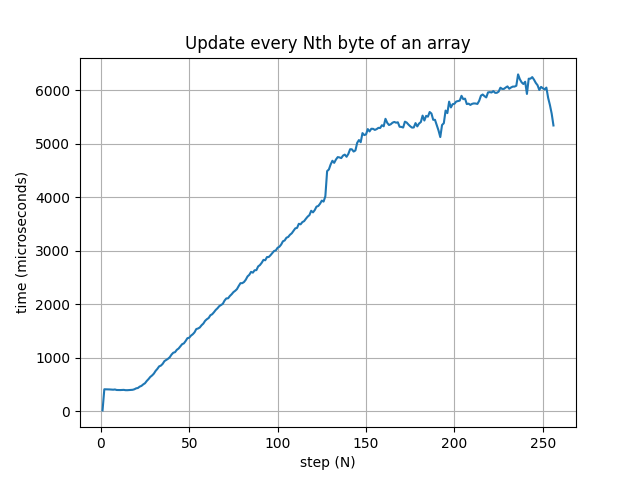
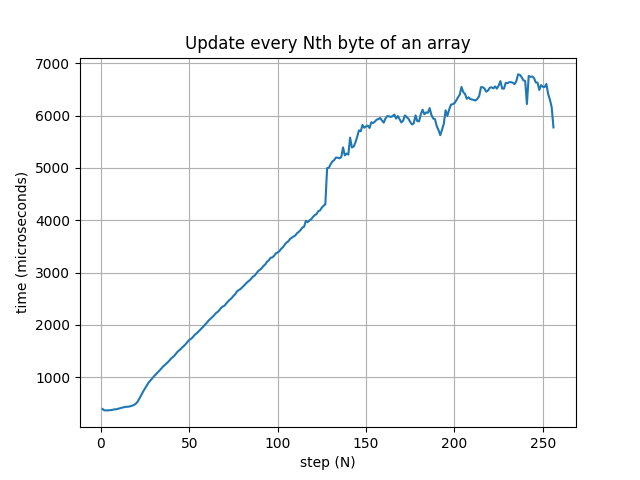
Performance improvement

diff --git a/source/step.cpp b/source/step.cpp
@@ -35,41 +35,6 @@ f64 test(std::vector<u8>& data, const u32 step, const u32 total) {
 }
 
 constexpr u32 total_bytes_read = 1 * MB;
-std::vector<u8> garbage(50 * MB);
-
-void pollute_cache() {
-    for (u32 i = 0; i < garbage.size(); i++) { garbage[i] += i; }
-    u32 sum = 0;
-    for (unsigned char i : garbage) { sum += i; }
-    std::cout << "# " << sum << std::endl;
-}
-
-f64 benchmark(const u32 step) {
-    /*
-     * We will allocate some data in memory and try to read it. Because
-     * we want to measure how much time it takes to access elements of the array
-     * which is not in CPU cache currently, we will try to pollute cache after array
-     * of data will be created.
-     */
-
-    // Allocate data that we will read
-    std::vector<u8> data(total_bytes_read * step);
-    for (u32 i = 0; i < data.size(); i++) { data[i] += i; }
-
-    // Pollute cache by process some another array which size
-    // is larger than size of CPU cache.
-    pollute_cache();
-
-    // Perform reads with a given step
-    const f64 test_result = test(data, step, total_bytes_read);
-
-    // This is probably not needed. I've just added it here for the compiler
-    // to not remove everything related to the vector<u8> data, because otherwise
-    // it will not be used anywhere and can be eliminated from the binary completely.
-    std::cout << "# " << *std::min_element(data.begin(), data.end()) << std::endl;
-
-    return test_result;
-}
 
 struct test_result {
     std::vector<f64> time{};
@@ -82,13 +47,19 @@ int main() {
     constexpr u32 number_of_runs_per_test = 5;
     std::vector<test_result> test_results(256);
 
+    // Pre-allocate data
+    std::vector<u8> data(test_results.size() * total_bytes_read);
+    for (u32 i = 0; i < data.size(); i++) { data[i] += i; }
+
     // Execute benchmarks (tests)
-    for (u32 run = 0; run < number_of_runs_per_test; run++) {
-        for (u32 test = 0; test < test_results.size(); test++) {
-            const u32 step = test + 1;
-            const f64 execution_time = benchmark(step);
-            test_results[test].time.emplace_back(execution_time);
-            test_results[test].step = step;
+    for (u32 run_id = 0; run_id < number_of_runs_per_test; run_id++) {
+        for (u32 test_id = 0; test_id < test_results.size(); test_id++) {
+            const u32 step = test_id + 1;
+
+            const f64 execution_time = test(data, step, total_bytes_read);
+
+            test_results[test_id].time.emplace_back(execution_time);
+            test_results[test_id].step = step;
         }
     }
 
@@ -98,7 +69,7 @@ int main() {
     for (const auto& test_result : test_results) {
         // we will select the fastest execution time
         const f64 execution_time = *std::min_element(test_result.time.begin(), test_result.time.end());
-        std::cout << test_result.step << "," << execution_time << std::endl;
+        std::cout << test_result.step << "," << execution_time << '\n';
     }
 
     return 0;

diff --git a/print.py b/print.py
@@ -1,6 +1,5 @@
 import pandas as pd
 import matplotlib.pyplot as plt
-import matplotlib.ticker as ticker
 import numpy as np
 
 df = pd.read_csv("result.csv", comment='#')
@@ -14,7 +13,6 @@ ax.plot(np.asarray(x, float), y)
 ax.set_xlabel("step (N)")
 ax.set_ylabel("time (microseconds)")
 ax.grid(True)
-# ax.xaxis.set_major_locator(ticker.MultipleLocator(10))
 ax.set_title("Update every Nth byte of an array")
 
 plt.show()
